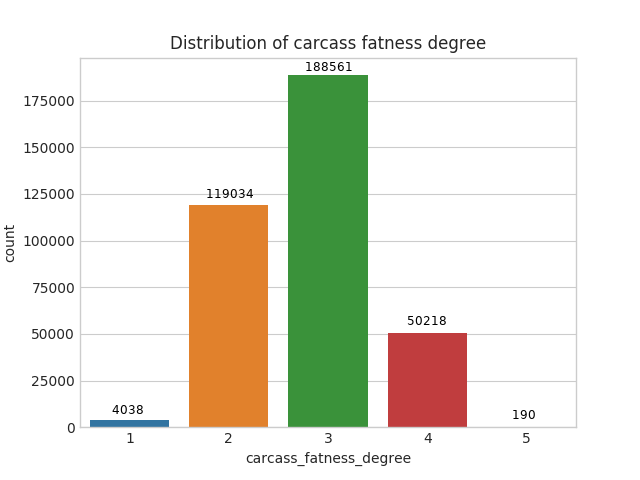
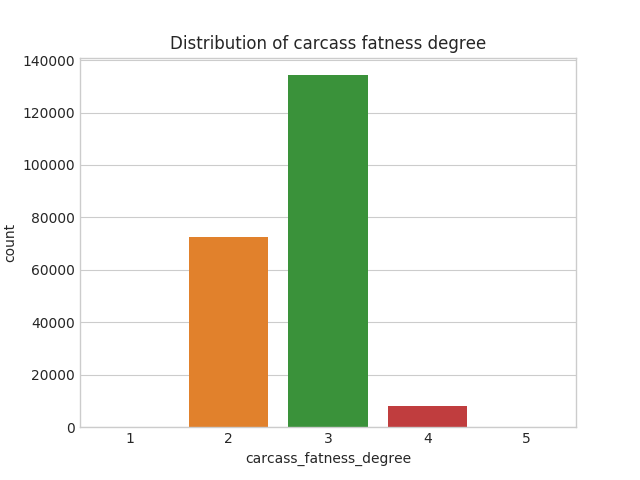
Enn com 5 vizinhos

diff --git a/dissertacao/5_4_selecao_modelo.py b/dissertacao/5_4_selecao_modelo.py
@@ -7,7 +7,7 @@ import pandas as pd
 import matplotlib.pyplot as plt
 from imblearn.combine import SMOTEENN
 from imblearn.over_sampling import SMOTE
-from imblearn.under_sampling import EditedNearestNeighbours
+from imblearn.under_sampling import EditedNearestNeighbours, RandomUnderSampler
 from sklearn.ensemble import RandomForestClassifier
 from sklearn.model_selection import StratifiedKFold
 from sklearn.naive_bayes import MultinomialNB
@@ -27,13 +27,13 @@ print(dados_completo.head())
 random_state = 42
 n_jobs = 2
 
-# classes_balancear = list([2, 3])
-# print('Classes para balancear', classes_balancear)
-# balanceador = EditedNearestNeighbours(n_jobs=n_jobs, kind_sel='all',
-#                                       sampling_strategy=classes_balancear, n_neighbors=3)
+classes_balancear = list([2, 3])
+print('Classes para balancear', classes_balancear)
+balanceador = EditedNearestNeighbours(n_jobs=n_jobs, n_neighbors=5)
 # balanceador = SMOTEENN()
-balanceador = SMOTE(n_jobs=n_jobs)
-# print(balanceador)
+# balanceador = SMOTE(n_jobs=n_jobs)
+# balanceador = RandomUnderSampler(sampling_strategy={1: 4038, 2: 100000, 3: 120000, 4: 50000, 5: 189})
+print(balanceador)
 X_completo, Y_completo = dados_completo.drop('carcass_fatness_degree', axis=1), \
                          dados_completo['carcass_fatness_degree']
 
@@ -97,11 +97,11 @@ def rodar_algoritmos():
         x_local_train, x_local_test = X_completo.iloc[train_index], X_completo.iloc[test_index]
         y_local_train, y_local_test = Y_completo.iloc[train_index], Y_completo.iloc[test_index]
 
-        # if os.path.isfile('../input/DadosCompletoTransformadoMLBalanceadoXTreino' + str(i) + '.csv'):
-        #     x_local_test, x_local_train, y_local_test, y_local_train = abrir_conjuntos(i)
-        # else:
-        #     x_local_test, x_local_train, y_local_test, y_local_train = salvar_conjuntos(i, x_local_test, x_local_train,
-        #                                                                                 y_local_test, y_local_train)
+        if os.path.isfile('../input/DadosCompletoTransformadoMLBalanceadoX2Treino' + str(i) + '.csv'):
+            x_local_test, x_local_train, y_local_test, y_local_train = abrir_conjuntos(i)
+        else:
+            x_local_test, x_local_train, y_local_test, y_local_train = salvar_conjuntos(i, x_local_test, x_local_train,
+                                                                                        y_local_test, y_local_train)
 
         modelo.fit(x_local_train, y_local_train)
         y_pred = modelo.predict(x_local_test)
@@ -115,10 +115,10 @@ def rodar_algoritmos():
 
 
 def abrir_conjuntos(i):
-    x_treino_nome = '../input/DadosCompletoTransformadoMLBalanceadoXTreino' + str(i) + '.csv'
-    y_treino_nome = '../input/DadosCompletoTransformadoMLBalanceadoYTreino' + str(i) + '.csv'
-    x_teste_nome = '../input/DadosCompletoTransformadoMLXTeste' + str(i) + '.csv'
-    y_teste_nome = '../input/DadosCompletoTransformadoMLYTeste' + str(i) + '.csv'
+    x_treino_nome = '../input/DadosCompletoTransformadoMLBalanceadoX2Treino' + str(i) + '.csv'
+    y_treino_nome = '../input/DadosCompletoTransformadoMLBalanceadoY2Treino' + str(i) + '.csv'
+    x_teste_nome = '../input/DadosCompletoTransformadoMLX2Teste' + str(i) + '.csv'
+    y_teste_nome = '../input/DadosCompletoTransformadoMLY2Teste' + str(i) + '.csv'
     x_local_train = pd.read_csv(x_treino_nome, encoding='utf-8', delimiter='\t')
     x_local_train.drop(x_local_train.columns[0], axis=1, inplace=True)
     y_local_train = pd.read_csv(y_treino_nome, encoding='utf-8', delimiter='\t')
@@ -131,10 +131,10 @@ def abrir_conjuntos(i):
 
 
 def salvar_conjuntos(i, x_local_test, x_local_train, y_local_test, y_local_train):
-    x_treino_nome = '../input/DadosCompletoTransformadoMLBalanceadoXTreino' + str(i) + '.csv'
-    y_treino_nome = '../input/DadosCompletoTransformadoMLBalanceadoYTreino' + str(i) + '.csv'
-    x_teste_nome = '../input/DadosCompletoTransformadoMLXTeste' + str(i) + '.csv'
-    y_teste_nome = '../input/DadosCompletoTransformadoMLYTeste' + str(i) + '.csv'
+    x_treino_nome = '../input/DadosCompletoTransformadoMLBalanceadoX2Treino' + str(i) + '.csv'
+    y_treino_nome = '../input/DadosCompletoTransformadoMLBalanceadoY2Treino' + str(i) + '.csv'
+    x_teste_nome = '../input/DadosCompletoTransformadoMLX2Teste' + str(i) + '.csv'
+    y_teste_nome = '../input/DadosCompletoTransformadoMLY2Teste' + str(i) + '.csv'
 
     x_local_train = pd.DataFrame(data=x_local_train, columns=X_completo.columns)
     y_local_train = pd.DataFrame(data=y_local_train, columns=['carcass_fatness_degree'])
@@ -165,3 +165,4 @@ for nome, modelo in modelos_base:
     print(matriz_confusao)
     print(classification_report(y_true=Y_completo, y_pred=y_predicao, digits=4))
     print()
+    sys.stdout.flush()

diff --git a/dissertacao/3_visualizar_dados.py b/dissertacao/3_visualizar_dados.py
@@ -29,16 +29,16 @@ print(dados_completo.shape)
 print(dados_completo.describe(include=['number']))
 
 classes_balancear = list([2, 3])
-# balanceador = EditedNearestNeighbours(kind_sel='mode', sampling_strategy=classes_balancear, n_neighbors=4)
-balanceador = SMOTEENN()
+balanceador = EditedNearestNeighbours(n_jobs=2, n_neighbors=5)
+# balanceador = SMOTEENN()
 
-# X_treino, Y_treino = balanceador.fit_resample(
-#     dados_completo.drop('carcass_fatness_degree', axis=1),
-#     dados_completo['carcass_fatness_degree'])
-# X_treino = pd.DataFrame(data=X_treino, columns=dados_completo.drop(['carcass_fatness_degree'], axis=1).columns)
-# Y_treino = pd.DataFrame(data=Y_treino, columns=['carcass_fatness_degree'])
-# X_treino.to_csv('../input/DadosCompletoTransformadoMLBalanceadoX.csv', encoding='utf-8', sep='\t')
-# Y_treino.to_csv('../input/DadosCompletoTransformadoMLBalanceadoY.csv', encoding='utf-8', sep='\t')
+X_treino, Y_treino = balanceador.fit_resample(
+    dados_completo.drop('carcass_fatness_degree', axis=1),
+    dados_completo['carcass_fatness_degree'])
+X_treino = pd.DataFrame(data=X_treino, columns=dados_completo.drop(['carcass_fatness_degree'], axis=1).columns)
+Y_treino = pd.DataFrame(data=Y_treino, columns=['carcass_fatness_degree'])
+X_treino.to_csv('../input/DadosCompletoTransformadoMLBalanceadoX.csv', encoding='utf-8', sep='\t')
+Y_treino.to_csv('../input/DadosCompletoTransformadoMLBalanceadoY.csv', encoding='utf-8', sep='\t')
 # exit()
 X_treino = pd.read_csv('../input/DadosCompletoTransformadoMLBalanceadoX.csv', encoding='utf-8', delimiter='\t')
 X_treino.drop(X_treino.columns[0], axis=1, inplace=True)
@@ -48,6 +48,11 @@ conjunto_balanceado = X_treino.join(Y_treino)
 conjunto_balanceado = conjunto_balanceado.sample(frac=1)
 print(conjunto_balanceado.shape)
 print(conjunto_balanceado.describe())
+mostrar_quantidade_por_classe(conjunto_balanceado, 1)
+mostrar_quantidade_por_classe(conjunto_balanceado, 2)
+mostrar_quantidade_por_classe(conjunto_balanceado, 3)
+mostrar_quantidade_por_classe(conjunto_balanceado, 4)
+mostrar_quantidade_por_classe(conjunto_balanceado, 5)
 
 
 def plotar_dataset_2d_imbalanced():

diff --git a/dissertacao/6_0_tunning.py b/dissertacao/6_0_tunning.py
@@ -79,9 +79,8 @@ for trainamento_index, teste_index in split.split(X_completo, Y_completo):
     conjunto_treinamento = dados_completo.loc[trainamento_index]
     conjunto_teste = dados_completo.loc[teste_index]
 
-# balanceador = EditedNearestNeighbours(n_jobs=n_jobs, kind_sel='mode',
-#                                       sampling_strategy=classes_balancear, n_neighbors=4)
-balanceador = SMOTEENN()
+balanceador = EditedNearestNeighbours(n_jobs=n_jobs, n_neighbors=5)
+# balanceador = SMOTEENN()
 print(balanceador)
 
 X_treino, Y_treino = conjunto_treinamento.drop('carcass_fatness_degree', axis=1), \
@@ -99,8 +98,7 @@ kfold = StratifiedKFold(n_splits=num_folds, random_state=random_state)
 #               'clf__min_samples_leaf': [1, 5, 10],
 #               'clf__min_samples_split': [2, 5, 10],
 #               'clf__max_features': ['sqrt', 'log2', None],
-#               'clf__criterion': ['gini', 'entropy'],
-#               'clf__class_weight': ['balanced', None],
+#               'clf__class_weight': ['balanced'],
 #               'clf__max_depth': [50, 75]}
 # modelo = RandomForestClassifier(oob_score=True)
 
